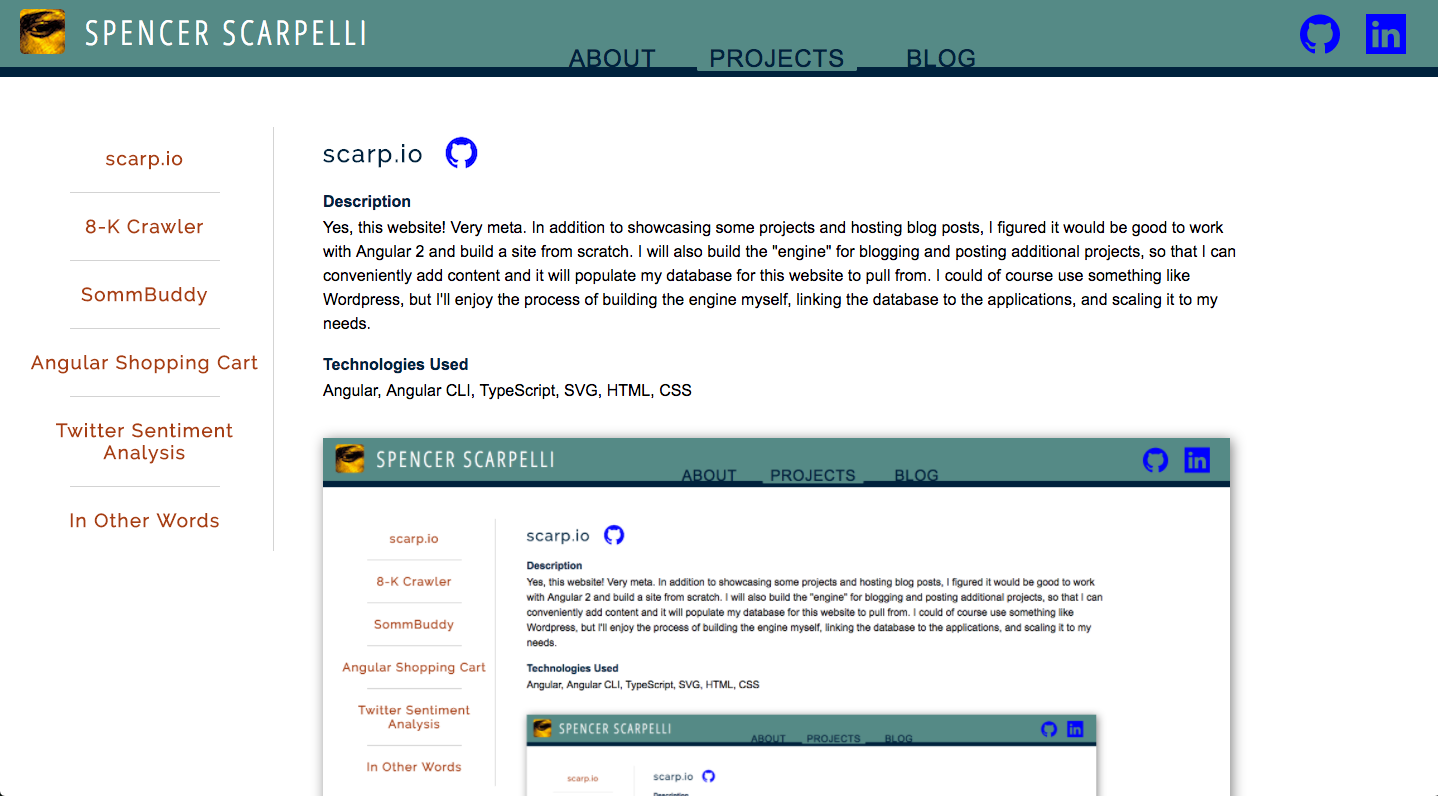
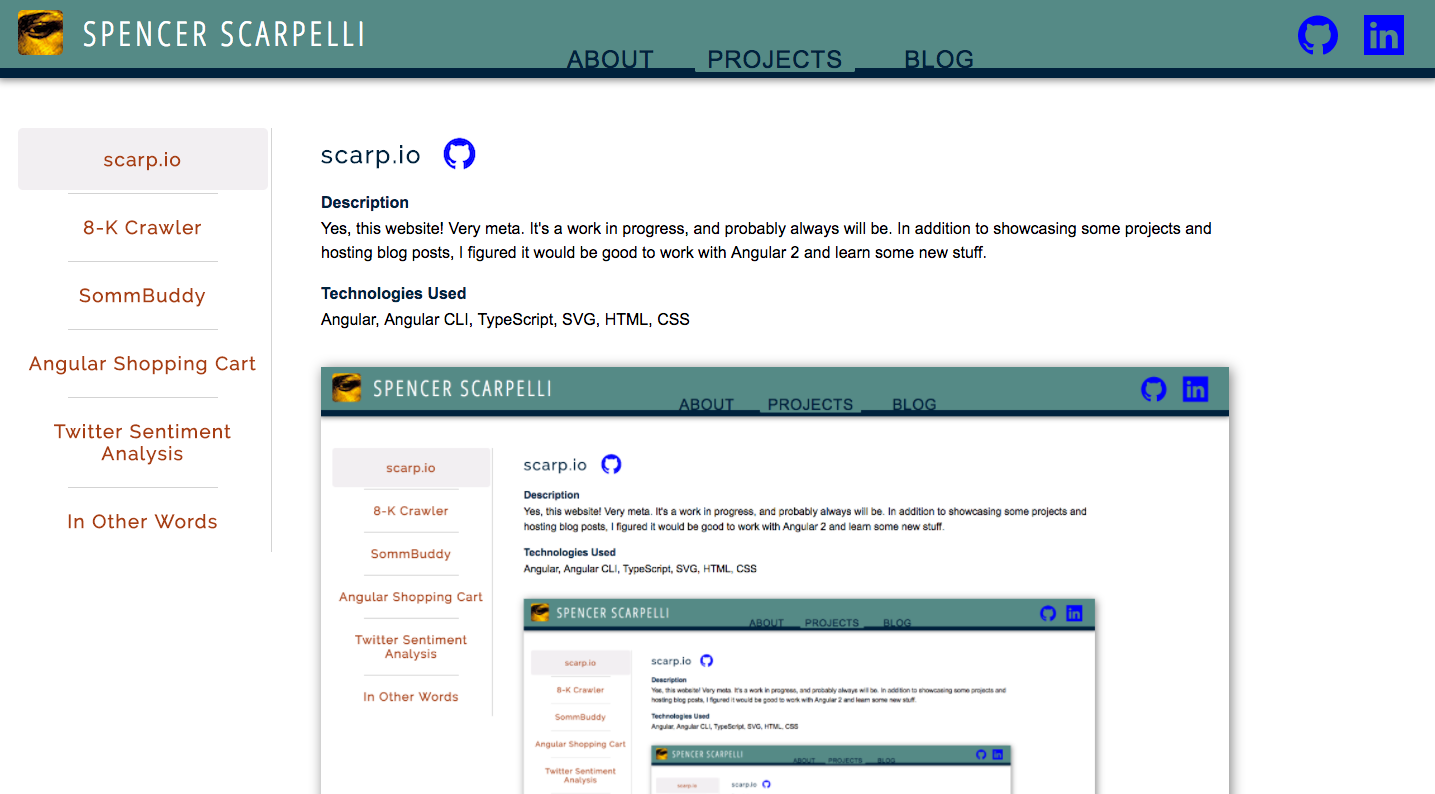
comment out api calls for projects and blog posts

diff --git a/src/app/about/about.component.html b/src/app/about/about.component.html
@@ -4,7 +4,7 @@
     I started coding in late 2015 and was immediately hooked. I really enjoy the combination of creativity and logic needed to solve problems and build things in the world of software and web development. In February 2016 I began a six-month coding bootcamp, focusing on full-stack development with mostly JavaScript-based technologies like Node.js and Angular. It was extremely challenging, a lot of fun, and served as a confirmation that this is what I want to spend my time doing. Near the end of the program I was accepted into Microsoft's LEAP internship program, which exposed me to the .NET Framework, Visual Studio, and backend data-processing on a large scale. Since then I've been taking online courses to improve my skills, and working on personal projects for fun.
   </p>
   <p class="final-paragraph">
-    Outside of programming I'm interested in music composition (see <a href="https://soundcloud.com/musicofmathis" target="_blank">SoundCloud</a>), drawing (see <a href="http://princeofmarshes.tumblr.com/" target="_blank">Tumblr</a>), linguistics (see project <a href="http://spencerscarpelli-inotherwords.surge.sh/" target="_blank">In Other Words</a>, also somewhat conversational in Portuguese and Spanish), and economics. I recently started volunteering for a non-profit called <a href="http://kilowattsforhumanity.org/kwh/" target="_blank">Kilowatts for Humanity</a>, which provides electricity solutions to developing communities around the world. I'll be working with their dev team to plan and write software for Raspberry Pi data loggers in the field, and to maintain and improve their website.
+    Outside of programming I'm interested in music composition (see <a href="https://soundcloud.com/musicofmathis" target="_blank">SoundCloud</a>), drawing (see <a href="http://princeofmarshes.tumblr.com/" target="_blank">Tumblr</a>), linguistics (see my project <a href="http://spencerscarpelli-inotherwords.surge.sh/" target="_blank">In Other Words</a>), economics, and astronomy. My lightning talks at Galvanize covered Planet 9, memetics, and the Berenstein Bears problem. I recently started volunteering for a non-profit called <a href="http://kilowattsforhumanity.org/kwh/" target="_blank">Kilowatts for Humanity</a>, which works with developing communities to plan and implement offgrid electrical solutions. I'll be working with their dev team to plan and write software for Raspberry Pi data loggers in the field, and to maintain and improve their website.
   </p>
   <h1 class="text3">Resume</h1>
   <div class="resume">

diff --git a/src/app/data.service.ts b/src/app/data.service.ts
@@ -24,47 +24,57 @@ export class DataService {
   }
 
   getProjects() {
-    let projects = [];
+    return PROJECTS;
 
-    this.http.get('http://localhost:8080/projects')
-      .subscribe(data => {
-        data.json().forEach(project => {
-          projects.push(this.createProjectObject(project));
-        });
-      });
+    // the commented code below is for fetching from an api
 
-    return projects;
+    // let projects = [];
+
+    // this.http.get('http://localhost:8080/projects')
+    //   .subscribe(data => {
+    //     data.json().forEach(project => {
+    //       projects.push(this.createProjectObject(project));
+    //     });
+    //   });
+
+    // return projects;
   }
 
   getPosts() {
-    let posts = [];
+    return BLOGPOSTS;
 
-    this.http.get('http://localhost:8080/posts')
-      .subscribe(data => {
-        return data.json();
-      });
+    // the commented code below is for fetching from an api
 
-    return posts;
+    // let posts = [];
+    //
+    // this.http.get('http://localhost:8080/posts')
+    //   .subscribe(data => {
+    //     data.json().forEach(post => {
+    //       posts.push(post);
+    //     });
+    //   });
+    //
+    // return posts;
   }
 
-  createProjectObject(json) {
-    let p = new Project();
-    let screenShots = json.screenshots.split(', ');
-
-    p.id = json.id;
-    p.name = json.name;
-    p.description = json.description;
-    p.technologies = json.technologies;
-    p.screenshots = [];
-    p.gitHubUrl = json.github_url;
-    p.deploymentUrl = json.deployment_url;
-
-    screenShots.forEach(x => {
-      p.screenshots.push('/assets/images/' + x);
-    });
-
-    return p;
-  }
+  // createProjectObject(json) {
+  //   let p = new Project();
+  //   let screenShots = json.screenshots.split(', ');
+  //
+  //   p.id = json.id;
+  //   p.name = json.name;
+  //   p.description = json.description;
+  //   p.technologies = json.technologies;
+  //   p.screenshots = [];
+  //   p.gitHubUrl = json.github_url;
+  //   p.deploymentUrl = json.deployment_url;
+  //
+  //   screenShots.forEach(x => {
+  //     p.screenshots.push('/assets/images/' + x);
+  //   });
+  //
+  //   return p;
+  // }
 
   // createPostObject(json) {
   //   var b = new BlogPost();

diff --git a/src/app/projects/projects.ts b/src/app/projects/projects.ts
@@ -32,7 +32,7 @@ export const PROJECTS: Project[] = [
   {
     id: 3,
     name: 'Angular Shopping Cart',
-    description: 'An AngularJS 1 exercise (I have since moved on to Angular 2), the goal was to build a single-page shopping cart application with a shared service across components. Users can use filter/search options to find the desired product, then add a certain quantity to their shopping bag and proceed to the checkout view, which displays the order total and each item with quantity and subtotal. They can then remove or edit the quantity of each item in their shopping cart.',
+    description: 'An AngularJS 1 exercise, the goal was to build a single-page shopping cart application with a shared service across components. Users can use filter/search options to find the desired product, then add a certain quantity to their shopping bag and proceed to the checkout view, which displays the order total and each item with quantity and subtotal. They can then remove or edit the quantity of each item in their shopping cart.',
     technologies: 'JavaScript, Angular, JSON, HTML, CSS',
     screenshots: [
       '/assets/images/shopping-cart-1.png',
@@ -74,7 +74,7 @@ export const PROJECTS: Project[] = [
   {
     id: 6,
     name: 'scarp.io',
-    description: 'Yes, this website! Very meta. In addition to showcasing some projects and hosting blog posts, I figured it would be good to work with Angular 2 and build a site from scratch. I will also build the "engine" for blogging and posting additional projects, so that I can conveniently add content and it will populate my database for this website to pull from. I could of course use something like Wordpress, but I\'ll enjoy the process of building the engine myself, linking the database to the applications, and scaling it to my needs.',
+    description: 'Yes, this website! Very meta. It\'s a work in progress, and probably always will be. In addition to showcasing some projects and hosting blog posts, I figured it would be good to work with Angular 2 and learn some new stuff.',
     technologies: 'Angular, Angular CLI, TypeScript, SVG, HTML, CSS',
     screenshots: [
       '/assets/images/ss-1.png'

diff --git a/src/styles.css b/src/styles.css
@@ -41,6 +41,16 @@ h4 {
 
 .left-panel-tab:hover {
   background-color: #E5DFE4;
+  cursor: pointer;
+}
+
+.left-panel-tab > h3 {
+  font-family: 'Raleway', sans-serif;
+  letter-spacing: 1.5px;
+}
+
+.left-panel-tab-selected {
+  background-color: rgba(229,223,228,.5);
 }
 
 .display-section {
@@ -63,15 +73,6 @@ h4 {
 
 .display-detail > p {
   margin-top: 5px;
-}
-
-.left-panel-tab > h3 {
-  font-family: 'Raleway', sans-serif;
-  letter-spacing: 1.5px;
-}
-
-.left-panel-tab:hover {
-  cursor: pointer;
 }
 
 .banner {

diff --git a/src/app/projects/projects.component.html b/src/app/projects/projects.component.html
@@ -1,7 +1,7 @@
 <div class="container">
   <div class="left-panel">
     <div *ngFor="let project of projects" (click)="selectProject(project)">
-      <div class="left-panel-tab">
+      <div class="left-panel-tab" [class.left-panel-tab-selected]="selectedProject == project">
         <h3 class="text2">{{project?.name}}</h3>
       </div>
       <div *ngIf="project != projects[projects.length - 1]" class="separator"></div>

diff --git a/src/app/blog/blog.component.html b/src/app/blog/blog.component.html
@@ -1,7 +1,7 @@
 <div class="container">
   <div class="left-panel">
     <div *ngFor="let cat of categories" (click)="selectCategory(cat)">
-      <div class="left-panel-tab">
+      <div class="left-panel-tab" [class.left-panel-tab-selected]="selectedCategory == cat">
         <h3 class="text2">{{cat}}</h3>
       </div>
       <div *ngIf="cat != categories[categories.length - 1]" class="separator"></div>

diff --git a/src/app/blog/blog.component.ts b/src/app/blog/blog.component.ts
@@ -16,7 +16,9 @@ export class BlogComponent implements OnInit {
 
   ngOnInit() {
     this.blogPosts = this.dataService.posts;
-    this.selectedCategory = 'All';
+    setTimeout(() => {
+      this.selectedCategory = 'All';
+    }, 100);
   }
 
   selectCategory(category) {
